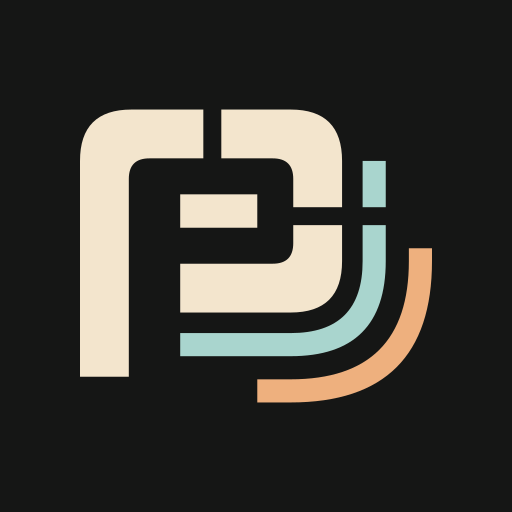
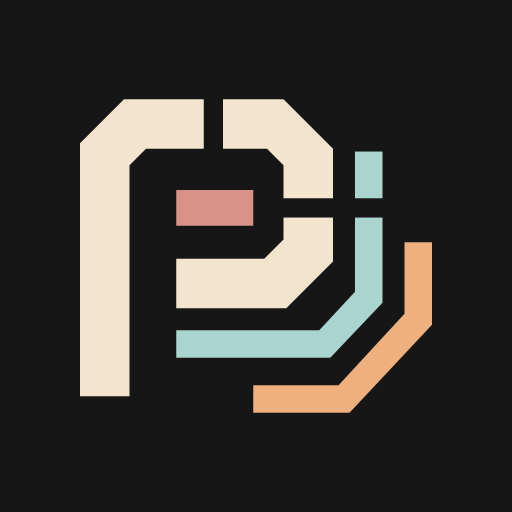
Use the matching Protagine website artwork

diff --git a/docs/branding/README.md b/docs/branding/README.md
@@ -1,20 +1,18 @@
 # Protagine artwork
 
-These repository assets retain the existing stepped P mark and color palette.
-The primary SVG wordmarks have been updated to Protagine. The avatar is unchanged
-apart from its filename.
+These assets match the Protagine website artwork from Aevonix Research
+(commit `d549db0db60194cd349ad60376c55b09de2c0f5d`). The primary SVGs use
+outlined lettering and the Engine mark, so their appearance does not depend
+on locally installed fonts.
 
 | File | Use |
 | --- | --- |
-| `protagine-primary-dark.svg` | Light lettering and spectrum accents for a dark background. |
-| `protagine-primary-light.svg` | Graphite lettering and darker accents for a light background. |
-| `protagine-avatar.png` | 512 × 512 avatar with a graphite background. |
+| `protagine-primary-dark.svg` | Primary logo for a dark background. |
+| `protagine-primary-light.svg` | Primary logo for a light background. |
+| `protagine-avatar.png` | Square profile avatar. |
 
-The SVG wordmarks use text with a local sans-serif font fallback. Their lettering
-may vary slightly between renderers. The repository README selects the appropriate
-artwork for the reader's light or dark appearance.
-
-## Usage
+The repository README selects the appropriate artwork for the reader's light
+or dark appearance. Visit [protagine.ai](https://protagine.ai) for the project.
 
 For press requests, co-branding or other artwork usage questions, contact
 [Maggie@aevonix.com](mailto:Maggie@aevonix.com).
